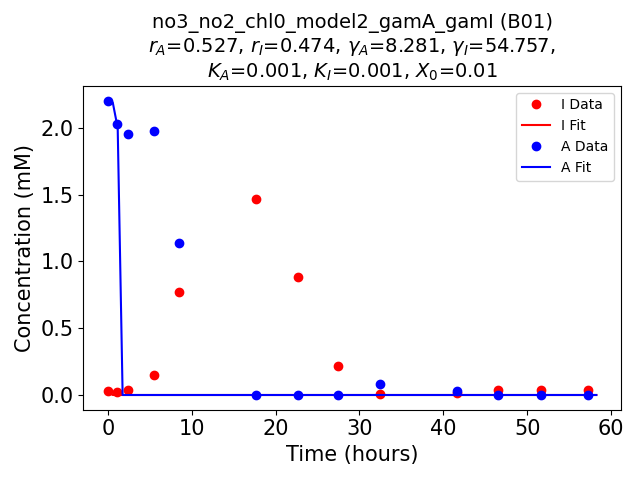
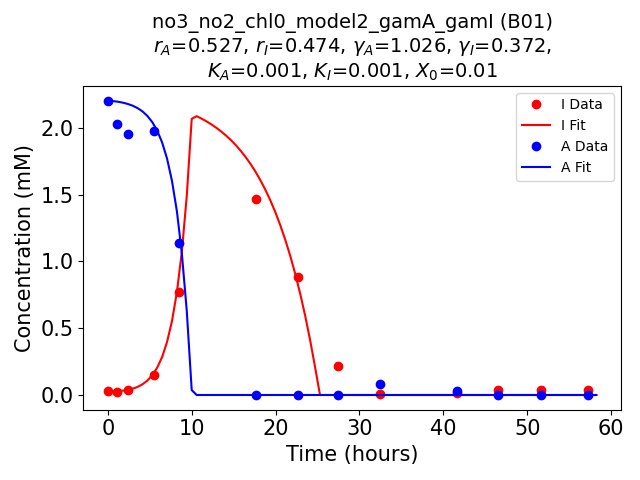
.

diff --git a/model_fit_chl1_chl0_20250319.py b/model_fit_chl1_chl0_20250319.py
@@ -20,7 +20,7 @@ no2_chl1 = pd.read_csv('concentrations/no2_chl1_evap.csv', index_col=0)
 # no2 = no2.iloc[:, :10]
 # no3 = no3.iloc[:, :10]
 
-for row in ['A01', 'B01']:
+for row in ['B01']:
     # Fit CHL+ data
     X0 = 0.01
     A_chl1 = no3_chl1.loc[row]
@@ -33,8 +33,8 @@ for row in ['A01', 'B01']:
     params_chl1 = Parameters()
     params_chl1.add('K_A',  value=0.001, min=1e-3, max=1, vary=False)
     params_chl1.add('K_I',  value=0.001, min=1e-3, max=1, vary=False)
-    params_chl1.add('r_A',  value=0.1, min=1e-3, max=1e3)
-    params_chl1.add('r_I',  value=0.1, min=1e-3, max=1e3)
+    params_chl1.add('r_A',  value=0.5, min=1e-3, max=1e3)
+    params_chl1.add('r_I',  value=0.5, min=1e-3, max=1e3)
     params_chl1.add('gamA', value=0.0, min=1e-3, max=1e3, vary=False)
     params_chl1.add('gamI', value=0.0, min=1e-3, max=1e3, vary=False)
     #params.add('gamI', expr='r_A * gamA / r_I')  # Constraint: r_A * gamA = r_I * gamI
@@ -84,8 +84,8 @@ for row in ['A01', 'B01']:
     params_chl0.add('K_I',  value=K_I, min=1e-4, max=10, vary=False)
     params_chl0.add('r_A',  value=r_A, min=1e-4, max=1e3, vary=False)
     params_chl0.add('r_I',  value=r_I, min=1e-4, max=1e3, vary=False)
-    params_chl0.add('gamA', value=10.0, min=1e-4, max=1e3)
-    params_chl0.add('gamI', value=10.0, min=1e-4, max=1e3)
+    params_chl0.add('gamA', value=1.0, min=1e-4, max=10)
+    params_chl0.add('gamI', value=0.5, min=1e-4, max=10)
     #params.add('gamI', expr='r_A * gamA / r_I')  # Constraint: r_A * gamA = r_I * gamI
     fit_str_chl0 = f'model2_gamA_gamI'
 
@@ -93,7 +93,7 @@ for row in ['A01', 'B01']:
 
     fitter = Minimizer(residual, params_chl0, fcn_args=(initial_chl0, t_eval_chl0, A_chl0, I_chl0))
     print(f'=====Brute fitting for CHL- row {row} started=====')
-    result_brute = fitter.minimize(method='brute', Ns=5)
+    result_brute = fitter.minimize(method='brute', Ns=3)
     print(f'=====Brute fitting for CHL- row {row} completed=====')
     best_result = copy.deepcopy(result_brute)
     num_iterations = 1

diff --git a/model_simulation.py b/model_simulation.py
@@ -10,28 +10,26 @@ import json
 import pickle
 import copy
 import lmfit
-from model1 import *
+from model2 import *
 
 
 t_eval = np.linspace(0, 60, 100)
 A0 = 2.0
 I0 = 0.0
-X0 = 0.1
-X_A0 = 0.1
-X_I0 = 0.1
+X0 = 0.01
+initial = [A0, I0, X0, X0]
 
 params = Parameters()
 #params.add('eps',  value=0.1, min=1e-3, max=1)
 params.add('K_A',  value=0.001, min=1e-4, max=10)
 params.add('K_I',  value=0.001, min=1e-4, max=10)
-params.add('r_A',  value=0.03, min=1e-4, max=1e3)
-params.add('r_I',  value=0.002, min=1e-4, max=1e3)
-params.add('gamA', value=10.0, min=1e-4, max=1e3)
-params.add('gamI', value=10.0, min=1e-4, max=1e3)
-params.add('X0',   value=0.1, min=1e-3, max=1e3, vary=False)
+params.add('r_A',  value=0.5, min=1e-4, max=1e3)
+params.add('r_I',  value=0.5, min=1e-4, max=1e3)
+params.add('gamA', value=1.0, min=1e-4, max=1e3)
+params.add('gamI', value=0.5, min=1e-4, max=1e3)
 
 
-#A_sim, I_sim = simulate(params, (t_eval[0], t_eval[-1]), [A0, I0, X0], t_eval)
+A_sim, I_sim = simulate(params, initial, t_eval)
 
 plt.figure(figsize=(10, 5))
 plt.plot(t_eval, A_sim, label='A(t)', color='blue')
